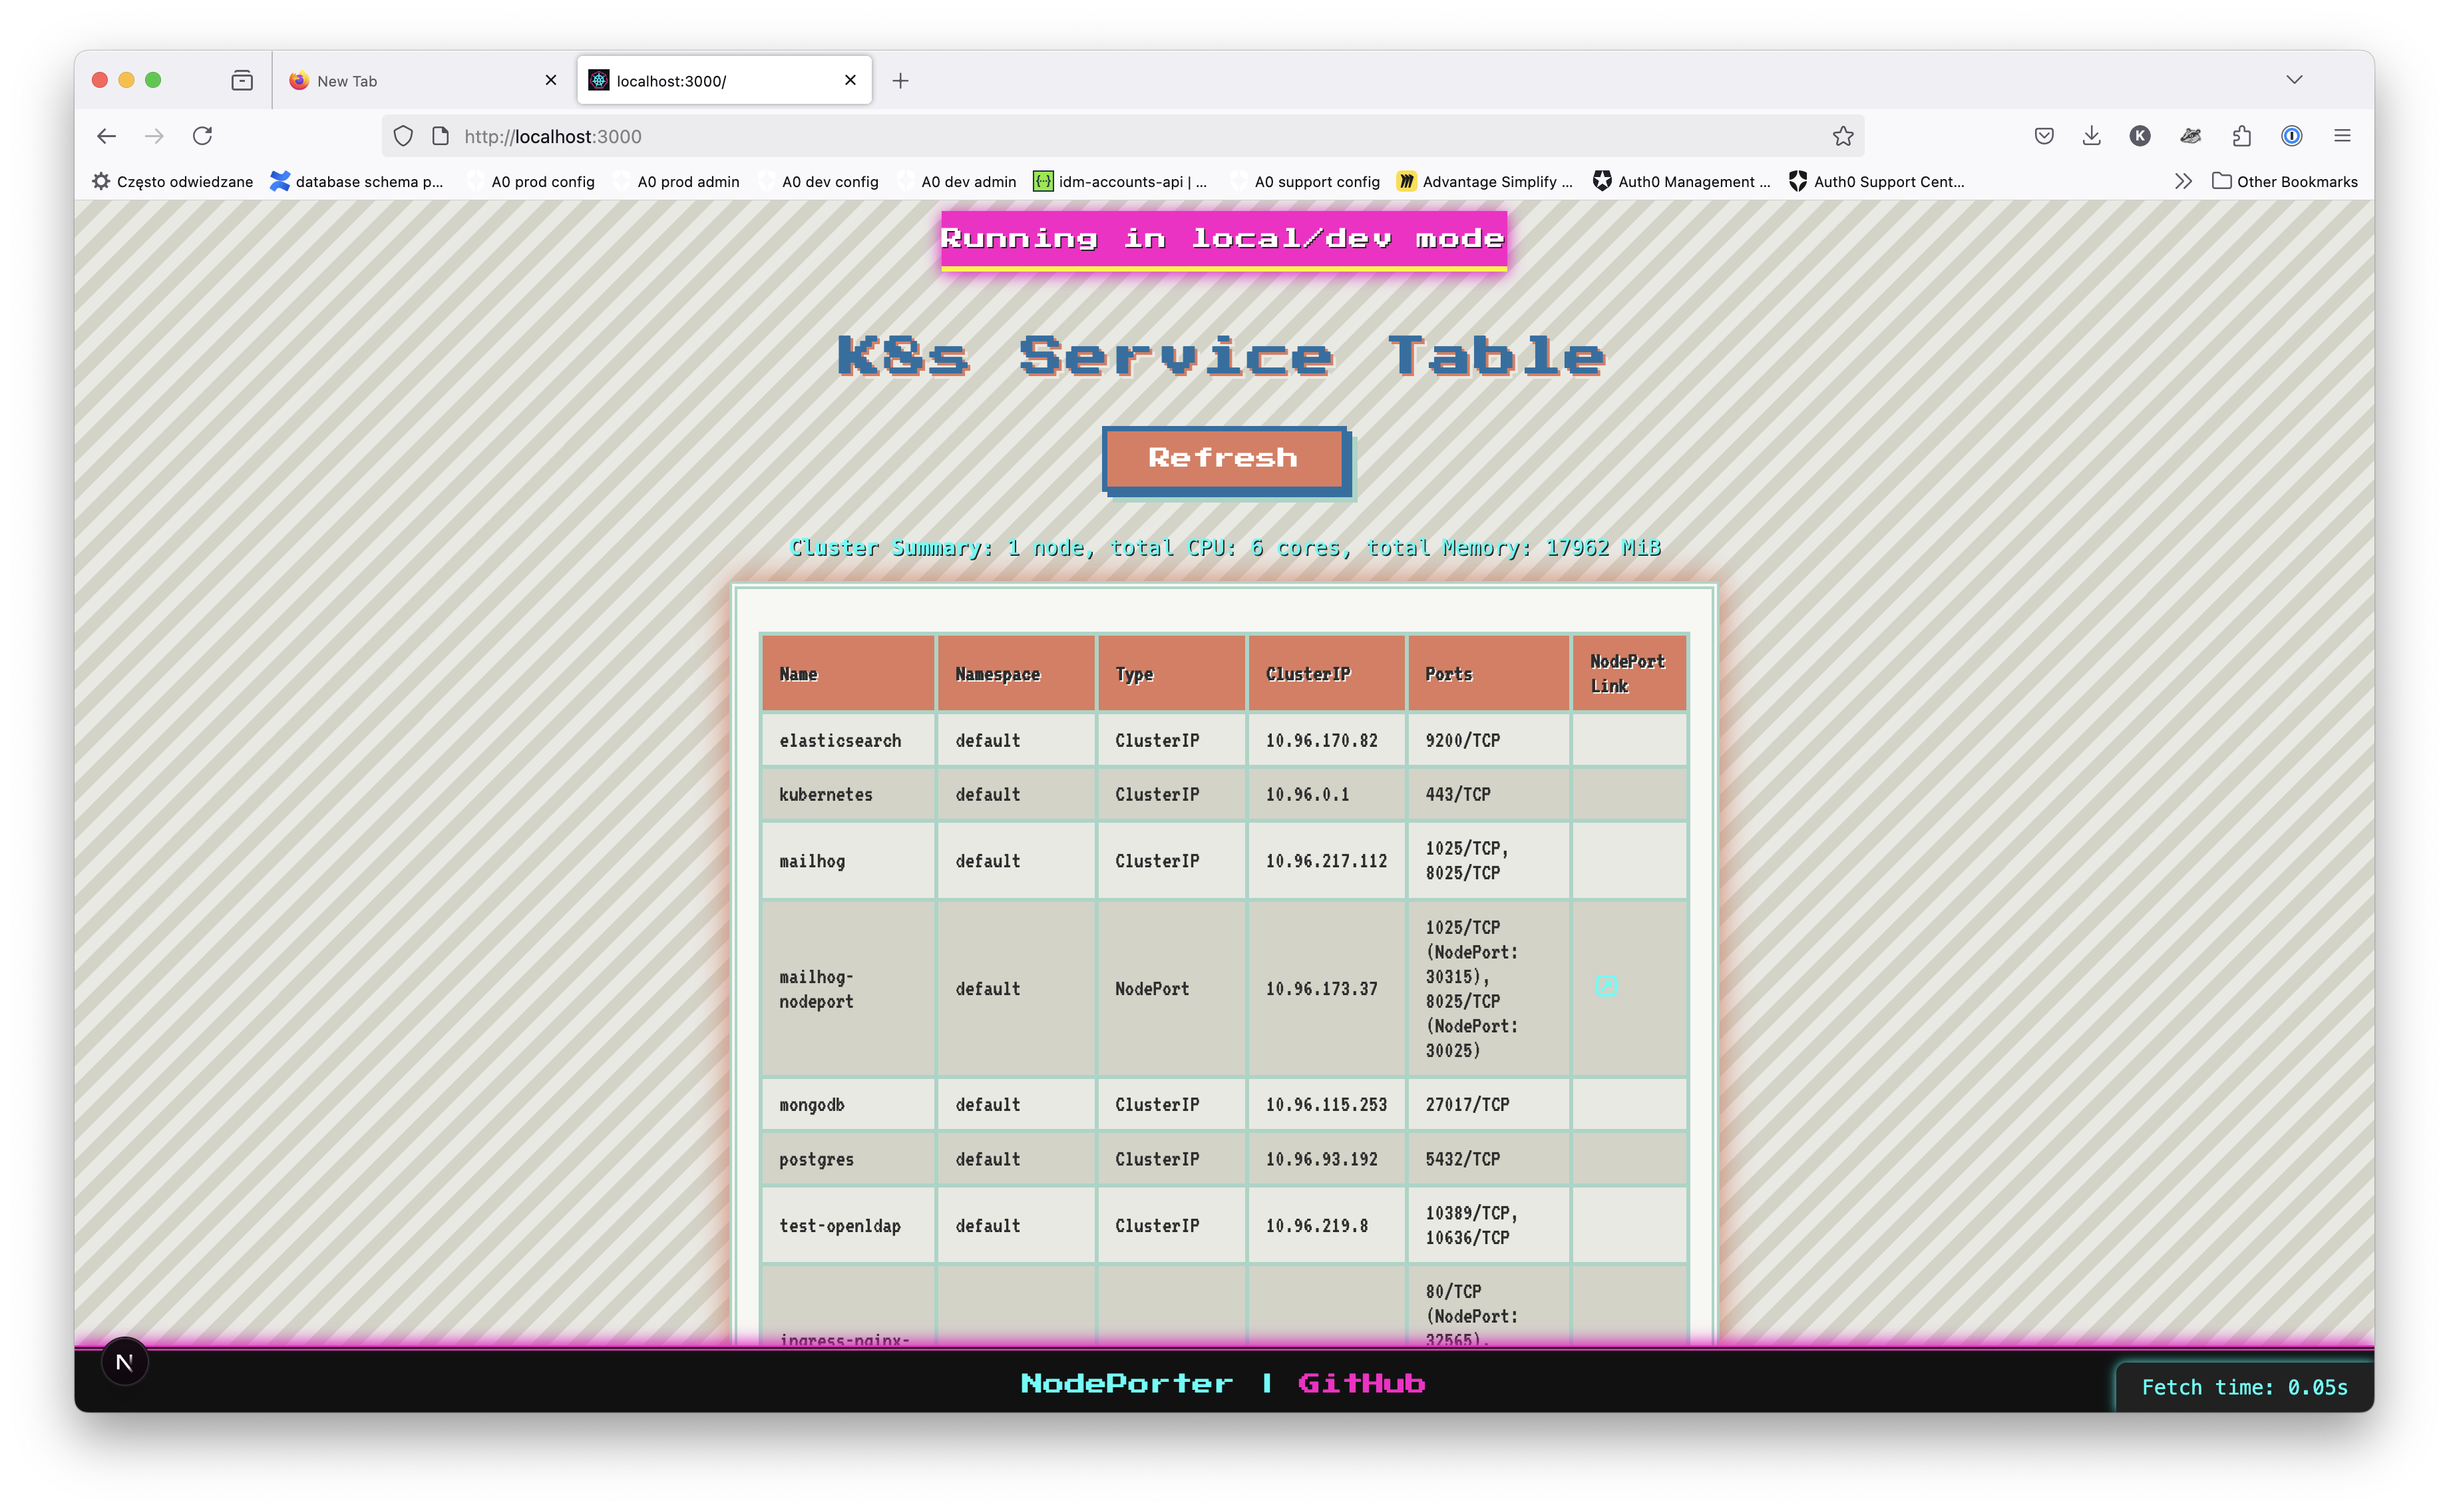
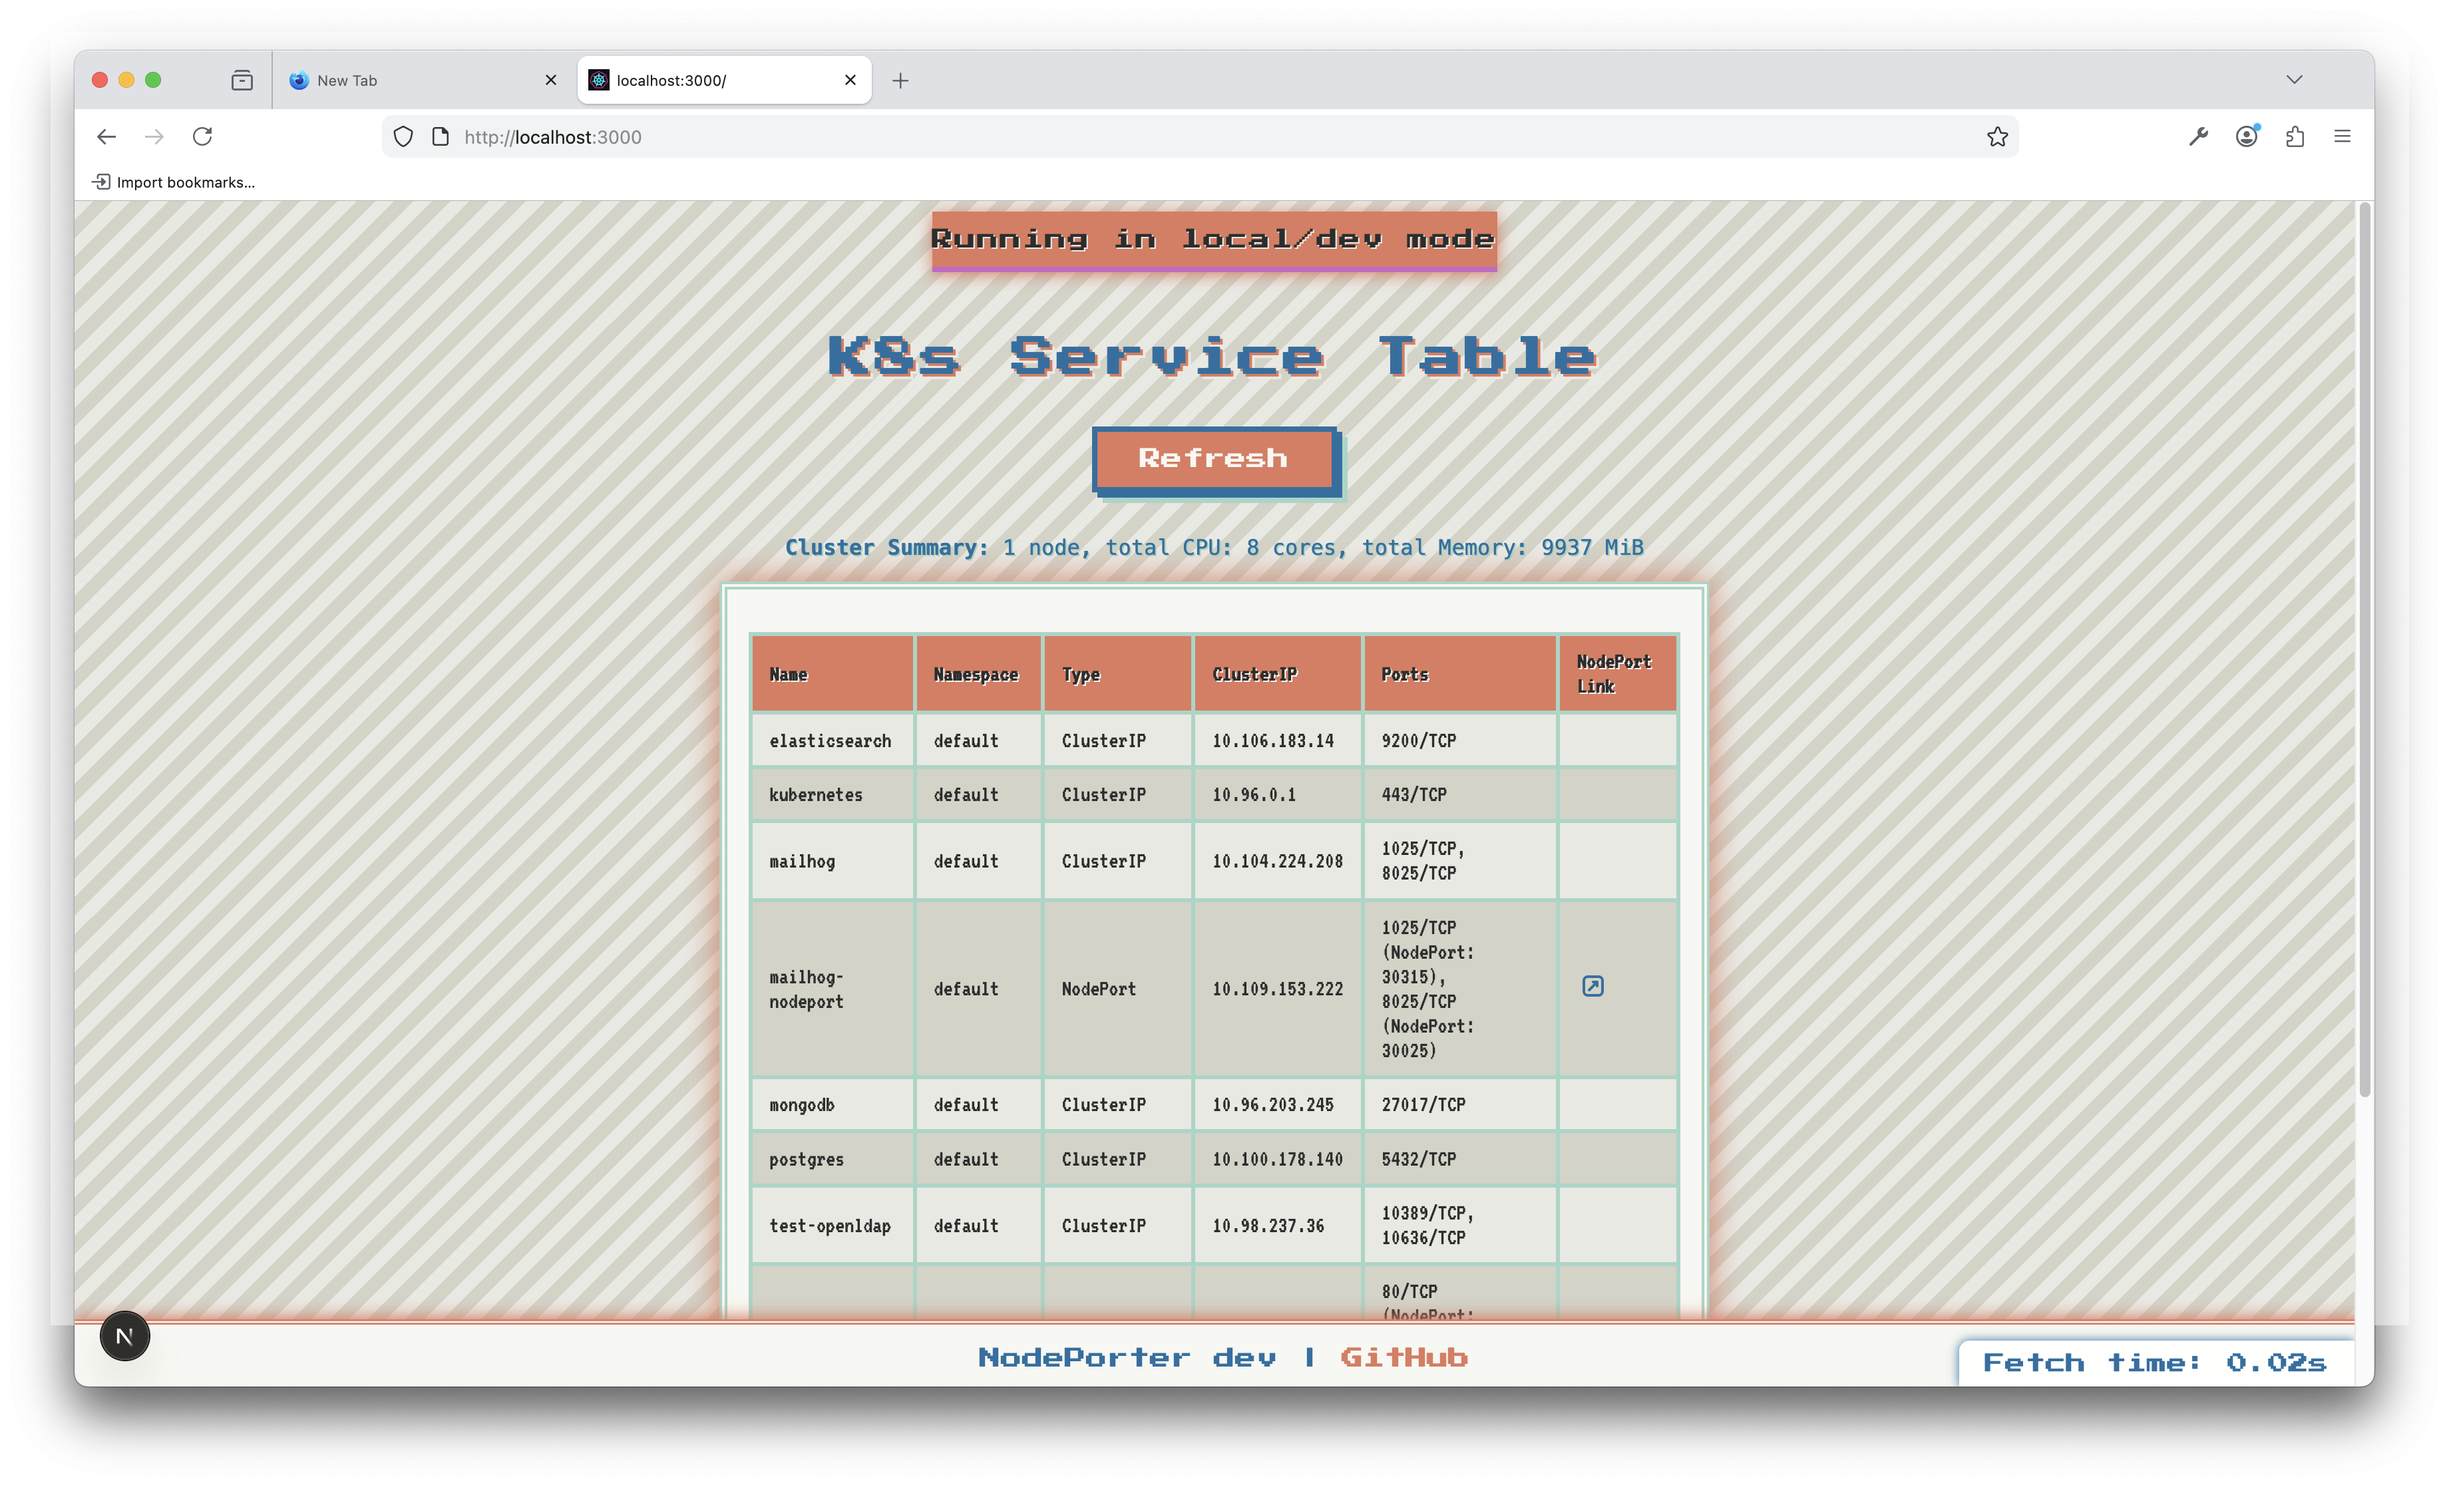
Updated readme and app screenshot

diff --git a/README.md b/README.md
@@ -27,7 +27,7 @@ NodePorter provides a user-friendly, retro≥-styled dashboard that discovers an
 - **Kubernetes Service Table:** List all services, types, ports, and direct NodePort links.
 - **Cluster Node Summary:** See node count, total CPU, and memory at a glance.
 - **No hosts file or DNS hacks:** Access services using real node IPs—no manual setup required.
-- **Retro UI:** Styled with 8-bit fonts and vibrant colors for fun and clarity.
+- **Retro UI:** Styled with 8-bit fonts and vibrant colors that can be easily customized for local runs.
 - **AI-assisted development:** The codebase was built and refactored with the help of generative AI tools for rapid iteration.
 
 ---
@@ -123,6 +123,14 @@ For more, see the [Helm documentation](https://helm.sh/docs/).
 
 ---
 
+## 🎨 Custom app colors
+
+You can customize colors used within the app to your own imagination by editing 2 files inside `/styles/palettes` directory:
+- `dark.css` for the dark-themed colors
+- `light.css` for the light-themed colors
+
+---
+
 ## 🤖 GenAI Approach
 
 This project was iteratively built and improved using generative AI (Cascade, GPT-4, etc.), showcasing:
@@ -139,7 +147,7 @@ This project was iteratively built and improved using generative AI (Cascade, GP
 - `ops/` — Deployment and Dockerization scripts
 - `pages/` — Next.js pages and API routes (including `api/` for backend endpoints)
 - `public/` — Static assets (icons, manifest, etc.)
-- `styles/` — Global and component CSS
+- `styles/` — Global and component CSS (including palettes for custom coloring)
 - `utils/` — Utility/helper functions (e.g., logging)
 - `__tests__/` — Jest tests for API and frontend
 - `sbom.spdx.json` — Software Bill of Materials (SBOM) generated by CI and attached to GitHub Releases (see below)
